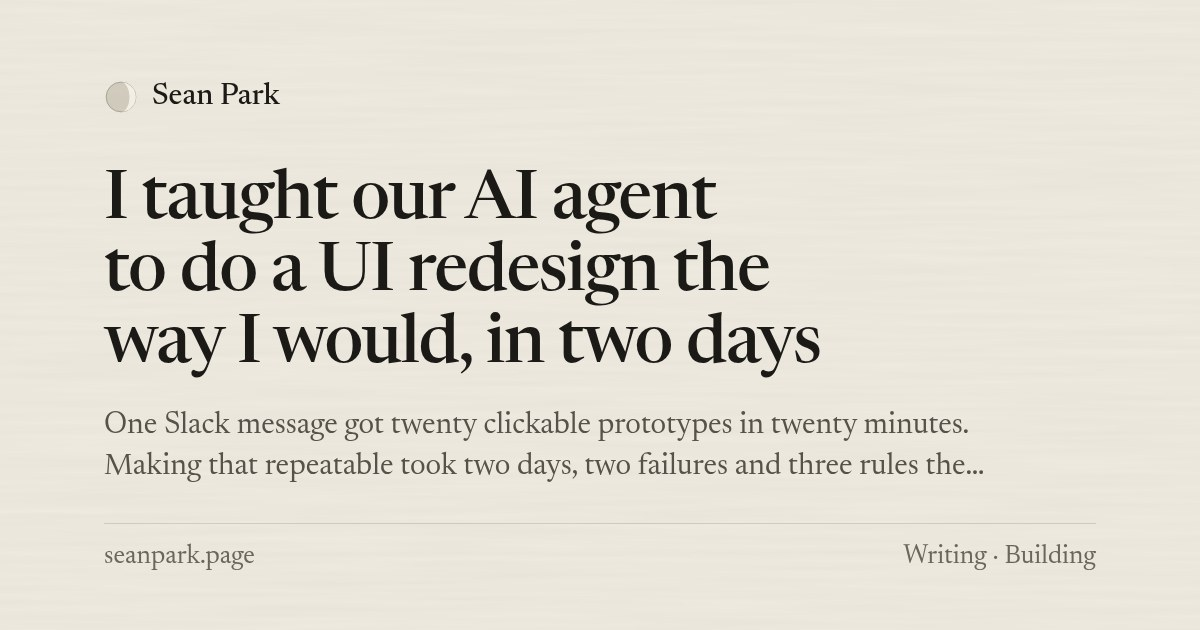
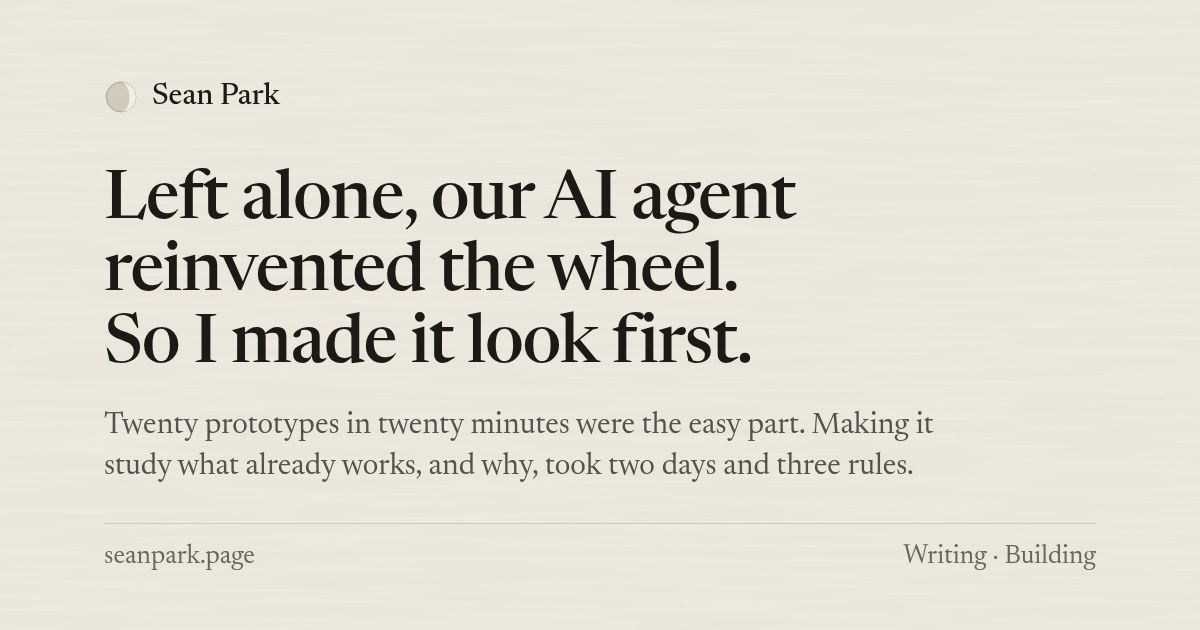
redesign-skill: reframed as Left alone, our AI agent reinvented the wheel (EN + KO), issue-to-merge and the 48-hour section, survived/reworked figure, share cards

Changed region(s): [[0.0925, 0.2714, 0.7092, 0.6032], [0.0925, 0.7238, 0.8017, 0.754], [0.0925, 0.6635, 0.8017, 0.6937]]

diff --git a/src/styles/global.css b/src/styles/global.css
@@ -363,6 +363,13 @@ main{margin-left:calc(var(--gut) + var(--rail));padding-right:48px;max-width:100
 .prose .px i span{position:absolute;inset:0 0 auto;height:calc(var(--h) / 5);background:var(--bg);border-bottom:1px solid var(--fg);font-size:13px;font-style:normal;color:var(--faint);padding:3px 8px;font-variant-numeric:tabular-nums lining-nums}
 .prose .px b{font-weight:400;color:var(--fg)}
 @media (max-width:640px){.prose .px i{width:140px;height:180px}}
+/* redesign-skill: what survived the first 48 hours of real use, beside what got reworked */
+.prose figure.kept{width:100%;display:grid;grid-template-columns:1fr 1fr;gap:12px 28px;font-size:16px}
+.prose .kept b{display:block;font-weight:400;color:var(--fg);border-bottom:1px solid var(--fg);padding-bottom:4px;margin-bottom:8px}
+.prose .kept div:last-of-type b{border-bottom-style:dashed;color:var(--soft)}
+.prose .kept ul{margin:0}
+.prose .kept figcaption{grid-column:1 / -1;margin-top:0}
+@media (max-width:640px){.prose figure.kept{grid-template-columns:1fr}}
 /* "[Sean: …]" in a draft: what's still to write, shown in place (src/lib/todo.mjs) */
 .prose p.todo{border:1px dashed var(--rule);border-radius:3px;padding:10px 14px;font-size:16px;color:var(--soft)}
 .prose p.todo::before{content:"To write";display:block;font-size:13px;letter-spacing:.04em;color:var(--faint);margin-bottom:2px}

diff --git a/src/content/writing-ko/redesign-skill.md b/src/content/writing-ko/redesign-skill.md
@@ -1,114 +1,128 @@
 ---
-title: 이틀 만에 AI 에이전트에게 내 방식대로 UI 리디자인하는 법을 가르쳤다
-dek: 슬랙 메시지 하나로 20분 만에 클릭되는 시안 20개가 나왔다. 이걸 매번 되풀이할 수 있게 만드는 데는 이틀, 실패 두 번, 그리고 에이전트가 절대 건너뛸 수 없는 규칙 세 개가 들었다.
+title: 에이전트에게 맡겼더니 바퀴를 다시 발명했다. 그래서 먼저 보게 했다.
+dek: 20분 만에 시안 20개를 뽑는 건 쉬운 부분이었다. 이미 잘 돌아가는 걸 찾아보고 그게 왜 되는지 따지게 만드는 데는 이틀과 규칙 세 개가 들었다.
 lens: 만들기
-keywords: ["AI 에이전트 UI 리디자인", "Claude 에이전트 스킬", "디자인 프로세스 스킬화", "시안 레드팀", "정보 구조 기준 레퍼런스 리서치"]
-tldr: "답 하나 말고 시안 여러 개를 달라고 한다. 문제는 픽셀로 잰다. 레퍼런스는 업계가 아니라 정보 구조로 찾는다. 그리고 에이전트가 안 한 일을 스스로 말하게 한다. 에이전트가 내게 쓴 가장 쓸모 있는 한 줄은 「일부만요」였다."
+keywords: ["AI 에이전트 UI 리디자인", "제이콥의 법칙", "바퀴를 다시 발명하지 마라 UX", "Claude 에이전트 스킬", "정보 구조 기준 레퍼런스 리서치", "시안 레드팀"]
+tldr: "에이전트한테 리디자인을 시키면 같은 부품을 이리저리 옮겨 놓기만 한다. 사람은 익숙한 패턴을 더 쉽게 쓴다. 그래서 내 에이전트는 뭘 그리기 전에 이미 잘 돌아가는 걸 찾아보고 그게 왜 되는지부터 따진다. 여기에 규칙이 분명한 디자인 시스템을 붙이면 이슈에서 머지까지 오후 한나절이면 간다. 그래도 얼마나 필요한지는 실제로 쓰는 사람이 정한다."
 ---
 
-회사에서는 사내 슬랙 에이전트를 쓴다. Claude 기반이고 저장소를 읽고 헤드리스 브라우저를 돌리고 데이터를 조회하고 사내 페이지를 올릴 수 있다. 다들 주로 운영 일에 쓴다. 나는 이걸로 디자인 일도 되는지 보고 싶었다.
+10월의 어느 화요일 오전 10시 52분, 나는 프론트엔드 채널에 어드민 화면이 공간을 낭비한다고 썼다. 캘린더는 날짜 한 칸을 보여 주기 전에 제목과 월 선택과 범례에 287픽셀을 쓰고 있었다.
 
-시험 대상은 페이지 일곱 개짜리 사내 어드민 도구였다. 고장 난 데는 없었다. 그냥 어수선했다. 캘린더 페이지가 제일 심했는데, 제목과 월 이동 버튼과 범례가 자리를 너무 많이 차지해서 달력은 화면 3분의 1 지점에서야 시작했다.
+우리 팀은 사내 슬랙 에이전트를 쓴다. Claude 기반이고 저장소를 읽고 헤드리스 브라우저를 돌리고 사내 페이지를 올릴 수 있다. 리디자인을 해 달라고 하면 몇 분 만에 해 줬을 거다. 문제는 바로 그거였다. 에이전트한테 더 나은 레이아웃을 달라고 하면 새로워 보일 때까지 같은 부품을 이리저리 옮긴다.
 
-그래서 메시지를 하나 썼다.
+어드민 도구에 필요한 건 새로움이 아니다. 제이콥 닐슨이 2000년에 이미 써 둔 얘기다. 사용자는 대부분의 시간을 다른 사이트에서 보내고, 그래서 내 사이트도 거기처럼 돌아가길 기대한다. 익숙한 패턴이 쓰기 쉽다. 그러니 할 일은 캘린더를 새로 발명하는 게 아니었다. 어떤 캘린더가 이미 잘 돌아가는지, 왜 그런지 알아내고 그 위에 우리 걸 짓는 거였다.
 
-> The training internal tools pages feel a bit messy from a UI/UX perspective. I want to do a full redesign. Show multiple variants of each of the pages, based on references from other similar services. It also is missing some design system details like spacing, and UX principle priorities like whether the prioritized module or UI really feels like the primary element on the page.
+그렇게 되기까지 이틀과 규칙 세 개가 들었다. 이렇게 했다.
 
-요청한 건 세 가지다. 답 하나가 아니라 시안 여러 개, 취향이 아니라 레퍼런스, 그리고 우선순위. 페이지에서 제일 중요한 게 정말 제일 중요해 보이는가?
+## 시안마다 뭘 따라 했는지 밝혀야 했다
 
-## 20분에 시안 20개
+내 메시지가 요구한 건 세 가지였다. 답 하나가 아니라 시안 여러 개, 취향이 아니라 비슷한 서비스의 레퍼런스, 그리고 우선순위. 페이지에서 제일 중요한 게 정말 제일 중요해 보이는가?
 
-20분쯤 지나고 API 비용 15달러 정도를 쓴 뒤 인덱스 페이지 하나가 왔다. 일곱 페이지에 걸쳐 클릭되는 시안이 20개였고 각각 지금 화면 스크린숏 옆에 놓여 있었다.
-
-에이전트는 먼저 실제 앱을 캡처하고 문제를 쟀다. 캘린더 격자는 위에서 287px 지점에서 시작했다. 수업 빌더의 본문은 640px쯤에서 시작했다.
+에이전트는 먼저 실제 앱을 캡처하고 문제를 쟀다. 캘린더 격자는 위에서 287px 지점에서 시작했다. 수업 빌더 본문은 640px쯤에서 시작했다.
 
 <figure class="pxs">
 <div class="pxrow">
 <div class="px"><i style="--h:287px"><span>헤더 287px</span></i><b>지금</b></div>
 <div class="px"><i style="--h:104px"><span>104px</span></i><b>모든 시안</b></div>
 </div>
-<figcaption>높이 900px 화면에서 캘린더가 시작하는 위치. 에이전트가 쓴 원칙 파일의 규칙 하나: 핵심 모듈 위에 오는 건 전부 104px 안에 들어가야 한다.</figcaption>
+<figcaption>높이 900px 화면에서 캘린더가 시작하는 위치. 에이전트가 쓴 원칙 파일의 규칙: 핵심 모듈 위에 오는 건 전부 104px 안에 들어가야 한다.</figcaption>
 </figure>
 
-그다음 시안을 하나도 만들기 전에 기초부터 깔았다. 우리 팔레트에 고정된 간격·글자 크기 체계를 얹은 토큰, 공용 사이드바, 실제 타입과 같은 모양의 목업 데이터, 짧은 원칙 파일. 페이지마다 핵심 모듈은 하나. 그 위의 모든 것은 104px 안에. 채워진 버튼은 하나. 제목 밑에 설명 문장은 없음. 색은 의미가 있을 때만.
+그다음 시안을 그리기 전에 기반부터 깔았다. 지금 쓰는 토큰, 실제 사이드바를 그대로 옮긴 셸, 실제 타입 모양을 따른 목 데이터, 짧은 원칙 파일. 페이지마다 핵심 모듈은 하나. 그 위에는 56px 헤더와 많아야 48px 툴바 하나, 합쳐서 104px. 크기는 정해진 값만 쓴다. 채워진 버튼은 하나. 색은 의미가 있을 때만 쓴다.
 
-그러고 나서야 하위 에이전트 셋에게 관련 페이지를 묶어서 나눠 줬다. 시안마다 실제 제품 하나, 구체적인 레이아웃, 꼭 동작해야 하는 인터랙션을 밝혀야 했다. 캘린더는 구글 캘린더, 옆 레일이 붙은 Notion Calendar, Float 같은 타임라인으로 돌아왔다.
+그러고 나서야 하위 에이전트 여러 개를 동시에 돌렸다. 시안마다 실제 제품 하나, 구체적인 레이아웃, 꼭 동작해야 하는 인터랙션을 적어야 했다. 캘린더는 구글 캘린더, 사이드 레일이 붙은 노션 캘린더, Float 같은 타임라인으로 나왔다. 일곱 페이지에 클릭되는 시안 20개가 지금 화면 스크린숏 옆에 놓였다.
 
-에이전트 셋이 따로 만든 시안 20개가 의견 20개가 아니라 디자인 시스템 하나처럼 보인 건 이 기초 덕분이다. 그리고 287이 104가 됐다는 숫자 덕분에 「더 깔끔해 보이는지」를 두고 다툴 일이 없었다.
+에이전트 여러 개가 따로 만든 시안 20개가 의견 20개가 아니라 디자인 시스템 하나처럼 보인 건 이 기반 덕이다. 그리고 287 → 104라는 숫자가 있으니 「더 깔끔해 보이냐」로 다툴 일이 없었다.
 
-## 자기 작업을 레드팀하다
+## 픽셀 말고 사람으로 레드팀하기
 
-보기 좋게 만드는 건 쉬운 쪽이다. 두 번째 패스를 시켰다.
+보기 좋게 만드는 건 쉬운 부분이다. 그래서 유스케이스와 유저 스토리를 기준으로 한 번 더 보라고 했다.
 
-> Do a red team pass with use cases and user stories in consideration and create new variants if needed based on those critiques. Indicate your final recommendation on the prototype.
+에이전트는 제품 기획 문서에서 페르소나 다섯 명을 꺼내 와 시안마다 전체 흐름을 따라 걸어 봤다. 그리고 전부 1280×800에서 다시 돌렸다. 현장 교육에 실제로 들고 가는 노트북 크기다. 다듬기만으로는 절대 못 찾았을 빈틈이 열 개 나왔다.
 
-에이전트는 제품 기획 문서에서 페르소나 다섯 명과 전체 흐름을 가져와 시안마다 그 흐름을 따라 걸어 봤다. 그리고 전부 1280×800에서 다시 돌렸다. 현장 교육에 실제로 들고 가는 노트북 크기다.
-
-다듬기만으로는 절대 못 찾았을 것들이 나왔다.
-
-- 수업 계획이나 강사가 아직 안 정해진 교육이 어느 캘린더에도 표시되지 않았다. 「다음에 할 일」 신호가 없었다.
-- QR 코드는 마우스를 올려야 보이는 아이콘 뒤에 있었다. 현장 터치스크린에서는 안 된다.
-- 정산은 교육별, 월별로 하는데 표는 기관별이라 일을 찾으려면 기관을 하나씩 열어야 했다.
-- 흐름의 첫 단계가 「지난 수업 계획 복사하기」인데 그걸 가진 시안이 없었다.
-- 외부 강사가 다른 강사의 휴가 사유를 볼 수 있었다.
+- 아직 수업 계획이 없는 교육을 보여 주는 캘린더가 하나도 없었다.
+- 당일 쓰는 QR 코드가 마우스를 올려야만 보이는 아이콘 뒤에 있었다. 현장의 터치스크린에서는 못 쓴다.
+- 정산은 교육 단위, 월 단위로 하는데 표는 기관 단위였다. 할 일을 찾으려면 기관을 하나씩 열어 봐야 했다.
 - 공용 사이드바에서 로그아웃, 테마, 글자 크기가 슬그머니 빠져 있었다. 없어지기 전까지는 아무도 모르는 것들이다.
 
-에이전트는 기존 시안의 좋은 부분을 합쳐 새 시안 네 개를 만들고, 페이지마다 추천 하나와 구현 순서를 내놨다. 16분, 8달러. 그 도구를 맡은 동료도 생각보다 괜찮다며 반가워했다.
+필요한 페이지에는 네 번째 시안을 만들었다. 대부분 기존 시안들의 좋은 부분을 합친 거였다. 그리고 페이지마다 추천안 하나와 만들 순서를 정해 줬다. 두 번을 합쳐 35분쯤, 22달러쯤 들었다.
 
-## 스킬로 만들다
+그날 저녁, 이 방식을 스킬로 남겨 두라고 했다. 이름과 트리거와 절차를 적은 마크다운 파일인데, 조건이 맞는 세션이면 어디서든 불러온다.
 
-그날 저녁 이 방식을 기억해 두라고 했다. 우리 에이전트에는 스킬이 있다. 이름과 발동 조건과 절차를 적은 마크다운 파일로, 조건이 맞는 세션마다 불러온다. 에이전트는 `ui-redesign-variants`라는 두 턴짜리 레시피를 썼다. 시안, 그다음 레드팀.
+## 리서치를 건너뛴 날
 
-## 이틀째, 두 번 실패하다
-
-바로 다른 화면 세 개에 써 봤다.
-
-첫 번째 실패. 상태 색이 너무 많은 목록 페이지를 리디자인해 달라고 했더니 3분 뒤 실제 프론트엔드 저장소에 PR이 올라와 있었다. 깔끔한 PR이었다. 모든 상태가 회색이 됐다. 다른 안은 아무도 보지 않은 상태였다.
+다음 날 상태 색이 너무 많은 목록 페이지에 이 스킬을 써 봤다. 3분 뒤 실제 프론트엔드 저장소에 풀 리퀘스트가 올라와 있었다. 상태가 전부 회색이 돼 있었다. 다른 안은 아직 아무도 보지 않았는데.
 
 > I didn't want a PR yet. Close that. Show me your usual redesigned prototype designs.
 
-두 번째 실패는 더 조용했다. 새 시안은 괜찮았는데 레퍼런스가 너무 익숙했다. 그래서 물었다.
+새로 나온 시안은 나쁘지 않았다. 그런데 레퍼런스가 안 좋은 쪽으로 익숙했다. AI 모델이 제일 먼저 떠올릴 법한 제품들이었다. 그래서 물었다.
 
 > Did you really run my redesign skill?
 
-답은 「일부만요」였다. 에이전트를 셋이 아니라 둘만 썼고 레퍼런스는 기억에서 골랐고 레드팀은 건너뛰었다.
+돌아온 답은 「일부만요」였다. 레퍼런스는 기억에서 골랐고 레드팀은 건너뛰었다.
 
-그러고 나서 리서치를 제대로 했다. 페이지의 정보 구조를 한 줄로 적었다. 「내가 만든 것들의 목록, 공개 범위 설정, 검토 상태, 즐겨찾기와 ⋯ 메뉴」. 그리고 AI 제품이 아니라 *그 구조*를 가진 제품을 찾았다. 공개 범위가 회색 「Public」 배지 하나고 색은 언어 표시 점뿐인 GitHub 저장소 목록. Hugging Face Spaces. 노란색은 처리 중, 빨간색은 직접 조치가 필요하다는 뜻인 App Store Connect. YouTube Studio. 그리고 반례로 Shopify Polaris. 여기는 색 배지를 실제로 쓴다.
+그러고 나서 리서치를 제대로 했다. 내가 제일 중요하게 보는 단계가 여기다. 에이전트는 이 페이지의 정보 구조를 한 줄로 적었다. 「내가 만든 것들의 목록, 공개 범위 설정, 검토 상태, 즐겨찾기와 ⋯ 메뉴」. 그리고 AI 쪽 제품이 아니라 *이 정보 구조*를 가진 제품을 찾았다. GitHub 저장소 목록에서 공개 범위는 회색 「Public」 배지고, 색이 있는 건 언어 점 하나뿐이다. Hugging Face Spaces. App Store Connect에서 노란색은 처리 중, 빨간색은 내가 뭔가 해야 한다는 뜻이다. YouTube 스튜디오. 반례로는 색 배지를 실제로 쓰는 Shopify Polaris.
 
-다른 제품이 같은 상태를 어떻게 다루는지 읽다가 우리 제품의 진짜 버그를 찾았다. 소유자가 꼭 봐야 하는 상태 하나가 아예 보이지 않았다. 비교한 제품은 전부 그 상태를 보여 준다. 레이아웃만 베꼈다면 절대 못 찾았을 버그다.
+이 리서치에서 우리 제품의 진짜 버그가 하나 나왔다. 소유자가 꼭 알아야 하는 상태 하나가 소유자에게 아예 안 보였다. 비슷한 제품은 전부 그 상태를 보여 준다. 우리 레이아웃만 이리저리 옮겼다면 절대 못 찾았을 거다. 다른 제품이 같은 상태를 어떻게 다루는지 읽어 보니까 찾았다.
 
 ## 건너뛸 수 없는 규칙 세 개
 
-스킬을 고쳐 달라고 했다. 두 번째 버전은 규칙 세 개로 시작한다. 전부 한 번씩 놓쳐서 생긴 규칙이다.
+스킬을 단단하게 고치라고 했다. 이제 스킬은 규칙 세 개로 시작한다. 하나같이 한 번씩 빠뜨린 적이 있어서 생긴 규칙이다.
 
-1. 리디자인 요청은 시안을 뜻한다. PR이 아니다. 누군가 시안을 고르기 전까지 저장소는 건드리지 않는다.
-2. 컴포넌트 하나라도 모든 단계를 밟는다. 개수는 줄여도 단계는 못 줄인다. 단계를 건너뛰면 답장 첫 줄에 그렇다고 쓴다.
-3. 레퍼런스는 기억이 아니라 리서치에서 나온다. 정보 구조를 한 줄로 적고, 다른 분야를 포함해 같은 구조의 제품을 여섯에서 여덟 개 찾고, 반례를 하나 넣는다.
+1. 리디자인 요청은 PR이 아니라 시안을 뜻한다. 누가 시안을 고르기 전에는 저장소를 건드리지 않는다.
+2. 컴포넌트 하나라도 모든 단계를 돈다. 개수는 줄여도 단계는 줄이지 않는다. 건너뛴 단계가 있으면 답장 첫 줄에 쓴다.
+3. 레퍼런스는 기억이 아니라 리서치에서 온다. 정보 구조를 한 줄로 적고, 같은 정보 구조를 가진 제품을 우리 분야 밖까지 여섯에서 여덟 개 찾고, 반례를 하나 넣는다. 시안마다 그 목록을 가리켜야 한다.
 
-규칙마다 날짜와 이유를 같이 적어 뒀다. 나중에 누가 「간단하게」 정리해 버리지 않도록.
+규칙마다 날짜와 이유를 달아 뒀다. 나중에 누가 「간단하게」 줄여 버리지 못하게.
 
-다음에 돌렸을 때, 단단해진 스킬은 내가 제일 바라던 일을 했다. 픽셀이 아니라 전제를 점검했다. 그 목록 페이지의 시안은 여전히 다 카드 갤러리였다. 에이전트는 실제 사용 데이터를 봤고 대부분의 사람은 항목이 몇 개뿐이었다. 필요한 건 더 나은 갤러리가 아니라 몇 개를 한 번에 보는 페이지였고, 색은 「확인 필요」 띠 한 곳에서만 쓸 이유가 있었다.
+세 번째 규칙은 제이콥의 법칙을 에이전트가 건너뛸 수 없는 단계로 바꿔 놓은 거다. 우리가 내놓는 것도 대부분 이렇게 만들었다. 듀오링고처럼 돌아가는 학습 플랫폼, 앱스토어처럼 돌아가는 스토어, ChatGPT처럼 돌아가는 스튜디오, Lovable처럼 돌아가는 바이브 코딩, 다른 클라우드 플랫폼 대시보드처럼 돌아가는 어드민 화면.
 
-내가 마음에 들어 한 방향이 사실 목업 데이터에만 있던 필드에 기대고 있었을 때도 에이전트는 그렇게 말했다. 그리고 지금 API로 되는 버전을 따로 내놨다.
+## 이슈에서 머지까지 오후 한나절
 
-## 남은 것
+페이지가 뭐여야 하는지는 리서치가 정한다. 그 페이지가 뭘로 만들어지는지는 디자인 시스템이 정한다.
 
-답 하나 말고 시안 여러 개를 달라고 한다. 리디자인 하나는 좋다, 싫다만 남긴다. 이름 붙은 시안 셋은 트레이드오프를 두고 대화하게 만들고 부분을 섞을 수도 있다.
+우리 디자인 시스템에는 컴포넌트만 있는 게 아니라 에이전트가 확인할 수 있는 규칙이 있다. 테마가 크기를 못 박아 둔다. 헤더 56px, 컨트롤 32px, 사이드바 220px, 글자 크기는 12, 13, 14, 16, 20, 모서리는 6과 8. 어드민에는 무엇을 요청받았고 어떻게 확인하는지 적은 짧은 스킬이 따로 있고, 제품 결정마다 그 결정을 내린 대화로 이어지는 결정 기록도 있다.
 
-시안보다 기초를 먼저 쓴다. 토큰과 셸과 원칙 파일이 있어야 에이전트 여럿이 같은 디자인을 만든다.
+그래서 리디자인안이 정해졌을 때 더 정할 게 거의 없었다. 팀원 한 명이 그날 오후 에이전트와 함께 고른 시안을 만들었다. 풀 리퀘스트 일곱 개. 첫 번째가 13시 43분에 올라왔고 18시 25분에 전부 머지됐다. 11.4k줄 추가, 3.0k줄 삭제. 시안이 코드와 같은 토큰 위에 만들어져 있었으니 작업 대부분은 옮겨 적기였다.
 
-레퍼런스는 업계가 아니라 정보 구조로 찾는다. 챗봇 목록은 다른 AI 제품보다 GitHub나 YouTube Studio에서 배울 게 더 많다.
+빈틈도 하나 있었다. 간격 단계와 44px 행 높이는 첫 풀 리퀘스트에서 미뤄졌고 끝내 테마에 들어가지 못했다. 시안에만 있는 규칙은 살아남지 못한다.
 
-스킬은 실패에서 자란다. 첫 버전은 잘된 일을 적었다. 두 번째 버전은 잘못된 일을 적었다.
+## 이틀 동안 실제로 쓰고 나서 남은 것
 
-그리고 에이전트가 안 한 일을 말하게 한다. 이 답장들에서 가장 값진 한 줄은 「일부만요」였다. 지름길을 자신 있게 요약한 답보다 그게 낫다.
+그다음 사람들이 쓰기 시작했고, 48시간 안에 절반쯤이 바뀌었다.
+
+<figure class="kept">
+<div><b>남은 것</b>
+<ul>
+<li>정해 둔 크기: 헤더, 컨트롤, 글자</li>
+<li>캘린더 구조</li>
+</ul></div>
+<div><b>다시 만든 것</b>
+<ul>
+<li>대시보드: 그날 바로 되돌림</li>
+<li>기관 서랍: 표 하나로</li>
+<li>계정: 사람 목록 표 하나로 축소</li>
+<li>기관 상세: 이틀 뒤 한 번 더 축소</li>
+</ul></div>
+<figcaption>리디자인이 머지되고 48시간 뒤의 교육 어드민.</figcaption>
+</figure>
+
+바뀐 건 대부분 같은 방향이었다. 더 적게. 기반은 버텼다. 바뀐 건 그 위에 얼마나 얹느냐였다.
+
+**페이지가 어떻게 돌아가야 하는지는 리서치가 알려 준다. 그중 얼마나 필요한지는 쓰는 사람만 알려 줄 수 있다.**
+
+레드팀에는 페르소나가 있었지만, 페르소나는 반박하지 않는다.
+
+[Sean: 절반이 줄어든 걸 알고 난 지금, 다음엔 뭘 다르게 할지.]
 
 ## 써 보기
 
-이 스킬은 우리 도구에만 맞는 부분을 걷어 내고 공개해 뒀다. Claude Code, Codex, Cursor처럼 `skills` CLI가 지원하는 에이전트에서 쓸 수 있다.
+이 스킬은 공개돼 있다. 우리 도구에만 해당하는 내용은 빼고 다시 썼다. Claude Code, Codex, Cursor, 그리고 `skills` CLI가 지원하는 다른 에이전트에서 쓸 수 있다.
 
 ```sh
 npx skills add spark33/spark33.github.io --skill ui-redesign-variants
 ```
 
-키트(토큰, 셸, 캡처·측정 스크립트, 인덱스 생성기)까지 들어 있는 원본은 [GitHub에](https://github.com/spark33/spark33.github.io/tree/main/skills/ui-redesign-variants) 있다.
+토큰, 셸, 캡처와 점검 스크립트, 인덱스 빌더가 든 킷까지 포함한 소스는 [GitHub에](https://github.com/spark33/spark33.github.io/tree/main/skills/ui-redesign-variants) 있다.
+
+*내 초고와 인터뷰를 바탕으로 에이전트와 초안을 쓰고, 내가 고쳤다.*

diff --git a/src/content/writing/redesign-skill.md b/src/content/writing/redesign-skill.md
@@ -1,27 +1,25 @@
 ---
-title: I taught our AI agent to do a UI redesign the way I would, in two days
-dek: One Slack message got twenty clickable prototypes in twenty minutes. Making that repeatable took two days, two failures and three rules the agent now can't skip.
+title: Left alone, our AI agent reinvented the wheel. So I made it look first.
+dek: Twenty prototypes in twenty minutes were the easy part. Making it study what already works, and why, took two days and three rules.
 lens: Building
 order: 3
 stage: essay
-updated: 2026-11-21
-keywords: ["AI agent UI redesign", "Claude agent skills", "design process as a skill", "red-teaming design variants", "research by information architecture"]
-tldr: "Ask for variants, not an answer. Measure the problem in pixels. Research by information architecture, not by industry. And make the agent say what it didn't do: the most useful line it ever wrote me was \"Only partly.\""
+updated: 2026-11-22
+keywords: ["AI agent UI redesign", "Jakob's Law", "don't reinvent the wheel UX", "Claude agent skills", "research by information architecture", "red-teaming design variants"]
+tldr: "An agent asked for a redesign will happily reshuffle the same parts. People find familiar patterns easier, so I made mine research what already works, and why, before drawing anything. Pair that with a design system that has hard rules and it goes from an issue to merged code in an afternoon. Real users still decide how much of it you need."
 ---
 
-At work we run an internal Slack agent. It's Claude-based, and it can read our repos, run a headless browser, query data and publish internal pages. Most people use it for ops work. I wanted to see if it could do design work.
+At 10:52 on a Tuesday in October, I posted in our frontend channel that the admin screens wasted space. The calendar spent 287 pixels on a title, a month picker and a legend before it showed a single day.
 
-The test case was an internal admin tool with seven pages. Nothing was broken. It just felt messy. On the calendar, the title, month controls and legend took up so much room that the grid didn't start until a third of the way down the screen.
+Our team runs an internal Slack agent. It's Claude-based, and it can read our repos, run a headless browser and publish internal pages. I could have asked it for a redesign and gotten one in minutes. That was the problem. Ask an agent for a better layout and it moves the same parts around until something looks fresh.
 
-So I wrote one message:
+Fresh isn't what you want from an admin tool. Jakob Nielsen wrote it down in 2000: users spend most of their time on other sites, so they expect yours to work the way those do. Familiar patterns are easier to use. So the job wasn't to invent a calendar. It was to find out which calendars already work, and why, and build ours on that.
 
-> The training internal tools pages feel a bit messy from a UI/UX perspective. I want to do a full redesign. Show multiple variants of each of the pages, based on references from other similar services. It also is missing some design system details like spacing, and UX principle priorities like whether the prioritized module or UI really feels like the primary element on the page.
+That took two days and three rules. Here's how.
 
-It asks for three things: variants instead of one answer, references instead of taste, and priority. Is the main thing on the page actually the main thing?
+## Every variant had to name what it copies
 
-## Twenty variants in twenty minutes
-
-About twenty minutes and $15 of API usage later, I had one index page with 20 clickable prototypes across the seven pages, each next to a screenshot of the page as it is.
+My message asked for three things: variants instead of one answer, references from comparable products instead of taste, and priority. Is the main thing on the page actually the main thing?
 
 The agent captured the real app first and measured the problem. The calendar grid started 287px from the top. The lesson builder's content started at about 640px.
 
@@ -30,81 +28,95 @@ The agent captured the real app first and measured the problem. The calendar gri
 <div class="px"><i style="--h:287px"><span>287px of header</span></i><b>Before</b></div>
 <div class="px"><i style="--h:104px"><span>104px</span></i><b>Every variant</b></div>
 </div>
-<figcaption>Where the calendar starts on a 900px screen. A rule from the agent's principles file: everything above the main module fits in 104px.</figcaption>
+<figcaption>Where the calendar starts on a 900px screen. The rule from the agent's principles file: everything above the main module fits in 104px.</figcaption>
 </figure>
 
-Then it wrote a foundation before any variant: our palette with a fixed spacing and type scale, a shared sidebar, mock data shaped like the real types, and a short principles file. One primary module per page. Everything above it fits in 104px. One filled button. No explanatory sentences under titles. Colour only carries meaning.
+Then it wrote a foundation before any variant: our existing tokens, a shell copying the real sidebar, mock data shaped like the real types, and a short principles file. One primary module per page. A 56px header and at most one 48px toolbar above it, so 104px in total. Fixed sizes only. One filled button. Colour only carries meaning.
 
-Only then did it fan out three sub-agents, one per group of related pages. Each variant had to name a real product, a concrete layout and the interactions that had to work. The calendar came back as Google Calendar, Notion Calendar with a side rail, and a timeline like Float.
+Only then did it fan out parallel sub-agents. Each variant had to name a real product, a concrete layout and the interactions that had to work. The calendar came back as Google Calendar, Notion Calendar with a side rail, and a timeline like Float. Twenty clickable variants across seven pages, each next to a screenshot of the page as it is.
 
-The foundation is why 20 prototypes from three parallel agents looked like one design system and not 20 opinions. And the 287 → 104 is why nobody had to argue about whether it "felt cleaner."
+The foundation is why twenty prototypes from parallel agents looked like one design system and not twenty opinions. And 287 → 104 meant nobody had to argue about whether it "felt cleaner."
 
-## Red-teaming its own work
+## Red-teaming against people, not pixels
 
-Looking good is the easy part. I asked for a second pass:
+Looking good is the easy part. I asked for a second pass against the use cases and user stories.
 
-> Do a red team pass with use cases and user stories in consideration and create new variants if needed based on those critiques. Indicate your final recommendation on the prototype.
+It pulled the five personas from the product's own planning docs, walked each variant through the end-to-end flow, and reran everything at 1280×800, the laptop someone actually carries to an on-site training. It found ten gaps that polish never would have:
 
-It pulled the five personas and the end-to-end flow from the product's own planning docs, walked each variant through them, and reran everything at 1280×800, the laptop someone actually carries to an on-site training.
-
-That found what polish never would have:
-
-- No calendar showed which trainings still needed a lesson plan or an instructor. The "what's next" signal was missing.
-- The QR codes were behind a hover-only icon. That fails on a touch screen at the venue.
+- No calendar showed which trainings still needed a lesson plan.
+- The QR code for the day was behind a hover-only icon. That fails on a touch screen at the venue.
 - Billing happens per training and per month, but the tables were per organisation, so you had to open each one to find the work.
-- The flow starts with "copy a past lesson plan." No variant had it.
-- External instructors could see other instructors' leave reasons.
 - The shared sidebar had quietly dropped logout, theme and font size. Nobody notices those until they're gone.
 
-It built four new variants, mostly by combining the best parts of the old ones, then gave one recommendation per page and a build order. Sixteen minutes, $8. The teammate who owns the tool liked it more than they expected to.
+It built a fourth variant for the pages that needed one, mostly by combining the best parts of the others, then gave one recommendation per page and a build order. The whole thing, both passes, took about 35 minutes and $22.
 
-## Turning it into a skill
+That evening I asked it to keep the approach as a skill: a markdown file with a name, a trigger and a procedure, which loads into any session that matches.
 
-That evening I asked it to remember the approach. Our agent has skills: markdown files with a name, a trigger and a procedure, which load into any session that matches. It wrote `ui-redesign-variants`, a two-turn recipe: variants, then red team.
+## The day it skipped the research
 
-## Day two: it fails twice
-
-I used it right away on three other screens.
-
-The first failure: I asked for a redesign of a list page with too many status colours, and three minutes later I had a pull request against the real frontend repo. A tidy one. Every status was now grey. Nobody had looked at alternatives yet.
+The next day I used the skill on a list page with too many status colours. Three minutes later I had a pull request against the real frontend repo, with every status turned grey. Nobody had looked at alternatives yet.
 
 > I didn't want a PR yet. Close that. Show me your usual redesigned prototype designs.
 
-The second failure was quieter. The new variants were fine, but the references felt familiar. So I asked:
+The new variants were fine, but the references felt familiar in the wrong way. They were the products an AI model would name first. So I asked:
 
 > Did you really run my redesign skill?
 
-It answered "only partly." It had used two agents instead of three, picked references from memory, and skipped the red team.
+It answered "only partly." It had picked the references from memory and skipped the red team.
 
-Then it did the research properly. It wrote the page's information architecture as one line, "a list of things you made, plus a visibility setting, a review status, and favorite and ⋯ menus," and searched for products with *that* IA, not products in the AI space. GitHub's repository list, where visibility is a grey "Public" badge and the only colour is the language dot. Hugging Face Spaces. App Store Connect, where yellow means a process is running and red means you need to act. YouTube Studio. And Shopify Polaris as the counter-example, because it does use coloured badges.
+Then it did the research properly, and this is the step I care about most. It wrote the page's information architecture as one line, "a list of things you made, plus a visibility setting, a review status, and favorite and ⋯ menus," and searched for products with *that* IA, not products in the AI space. GitHub's repository list, where visibility is a grey "Public" badge and the only colour is the language dot. Hugging Face Spaces. App Store Connect, where yellow means a process is running and red means you need to act. YouTube Studio. And Shopify Polaris as the counter-example, because it does use coloured badges.
 
-Reading how other products handle the same states turned up a real bug in ours: one state the owner needed to see wasn't shown to them at all. Every comparable product shows it. Copying layouts would never have found that.
+That research turned up a real bug in our product. One state the owner needed to see wasn't shown to them at all, and every comparable product shows it. Reshuffling our own layout would never have found that. Reading how other products handle the same states did.
 
 ## Three rules it can't skip
 
-I asked it to update the skill. Version two opens with three rules, each written because it was missed once:
+I asked it to harden the skill. It now opens with three rules, each written because it was missed once:
 
 1. A redesign request means prototypes, not a PR. No repo edits until someone picks a variant.
-2. Every step runs, even for one component. Scale the counts down, never the steps, and if a step is skipped, the first line of the reply says so.
-3. References come from research, not memory: describe the IA in one line, find six to eight products with the same IA, including ones outside your domain, and include one counter-example.
+2. Every step runs, even for one component. Scale the counts down, never the steps. If a step is skipped, the first line of the reply says so.
+3. References come from research, not memory. Describe the IA in one line, find six to eight products with the same IA, including ones outside your domain, and include one counter-example. Every variant points back at that list.
 
 Each rule carries its date and the reason, so nobody "simplifies" it away later.
 
-The next time I ran it, the hardened version did the thing I care most about. It checked the premise, not the pixels. Every variant of that list page was still a gallery of cards, so it looked at real usage. Most people had only a handful of items. The useful redesign wasn't a better gallery, it was a page for a few things at once, with a "needs attention" strip as the one place colour was earned.
+The third rule is Jakob's Law, made into a step an agent can't skip. It's also how we've built most of what we ship: a learning platform that works like Duolingo, a store that works like the App Store, a studio that works like ChatGPT, vibe coding that works like Lovable, and admin screens that work like other cloud platforms' dashboards.
 
-And when one direction I liked turned out to depend on fields that had been invented for the mock data, it said so, and proposed a version that works with the API we have.
+## From an issue to merged code in one afternoon
 
-## What I took from it
+The research decides what a page should be. The design system decides what it's made of.
 
-Ask for variants, not an answer. One redesign invites a yes or no. Three named variants invite a conversation about trade-offs, and you can mix parts.
+Ours has rules an agent can check, not just components. The theme fixes the sizes: a 56px header, 32px controls, a 220px sidebar, a type scale of 12, 13, 14, 16 and 20, and corner radii of 6 and 8. The admin has its own short skill that says what was asked for and how to check it, and a decision log where every product decision links back to the conversation that made it.
 
-Write the foundation before the variants. Tokens, a shell and a principles file are what let parallel agents agree.
+So when the redesign was picked, there was very little left to decide. A teammate built the chosen variants with the agent that same afternoon. Seven pull requests, the first opened at 13:43, all merged by 18:25. Plus 11.4k lines, minus 3.0k. The prototypes were built on the same tokens the code uses, so most of the build was translation.
 
-Research by information architecture, not by industry. A chatbot list has more to learn from GitHub and YouTube Studio than from other AI products.
+One gap: the spacing steps and the 44px row height were deferred in the first pull request and never made it into the theme. Rules that only live in a prototype don't survive.
 
-A skill gets better from its failures. The first version wrote down what went right. The second wrote down what went wrong.
+## What survived two days of real users
 
-And make the agent say what it didn't do. The most valuable line in any of these replies was "Only partly." I'll take that over a confident summary of a shortcut.
+Then people started using it, and about half of it changed within 48 hours.
+
+<figure class="kept">
+<div><b>Survived</b>
+<ul>
+<li>The fixed sizes: header, controls, type</li>
+<li>The calendar's structure</li>
+</ul></div>
+<div><b>Reworked</b>
+<ul>
+<li>The dashboard, reversed the same day</li>
+<li>The organisation drawer, now one table</li>
+<li>Accounts, cut back to a single table of people</li>
+<li>Organisation detail, cut down again two days later</li>
+</ul></div>
+<figcaption>The training admin, 48 hours after the redesign merged.</figcaption>
+</figure>
+
+Most of the changes went the same way: less. The foundation held. What changed was how much sat on top of it.
+
+**Research tells you how a page should work. Only the people using it can tell you how much of it they need.**
+
+The red team had personas, but personas don't push back.
+
+[Sean: what you'd do differently next time, now that you know half of it got cut back.]
 
 ## Use it
 
@@ -115,3 +127,5 @@ npx skills add spark33/spark33.github.io --skill ui-redesign-variants
 ```
 
 The source, with the kit (tokens, shell, the capture and probe scripts, the index builder), is [on GitHub](https://github.com/spark33/spark33.github.io/tree/main/skills/ui-redesign-variants).
+
+*Drafted with my agent from my own draft and an interview; edited by me.*
